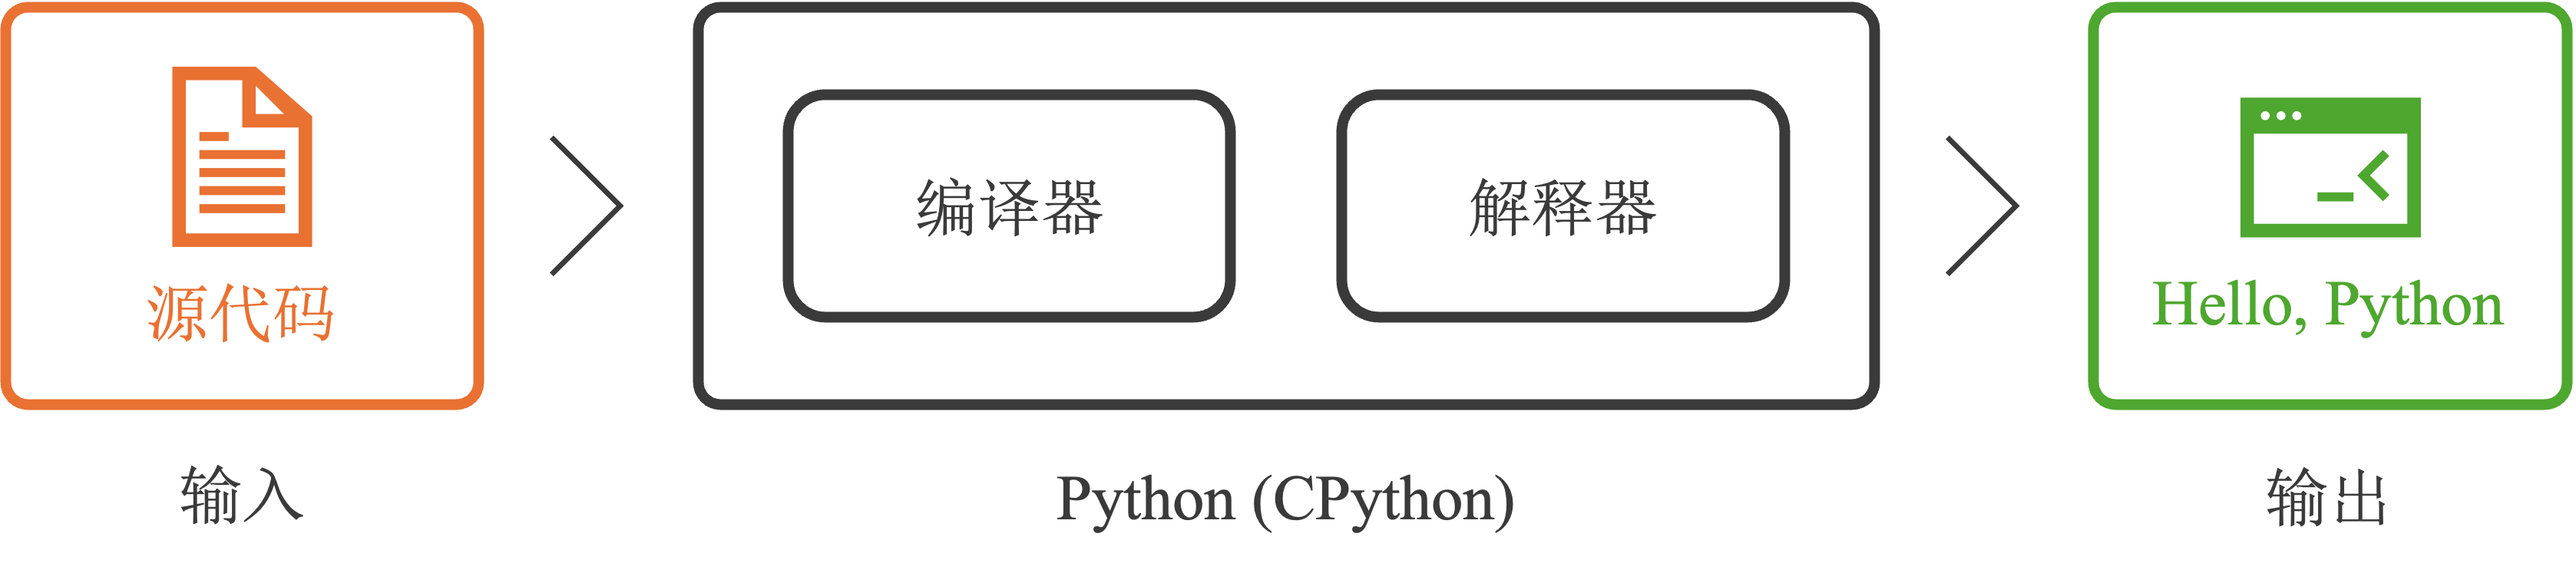
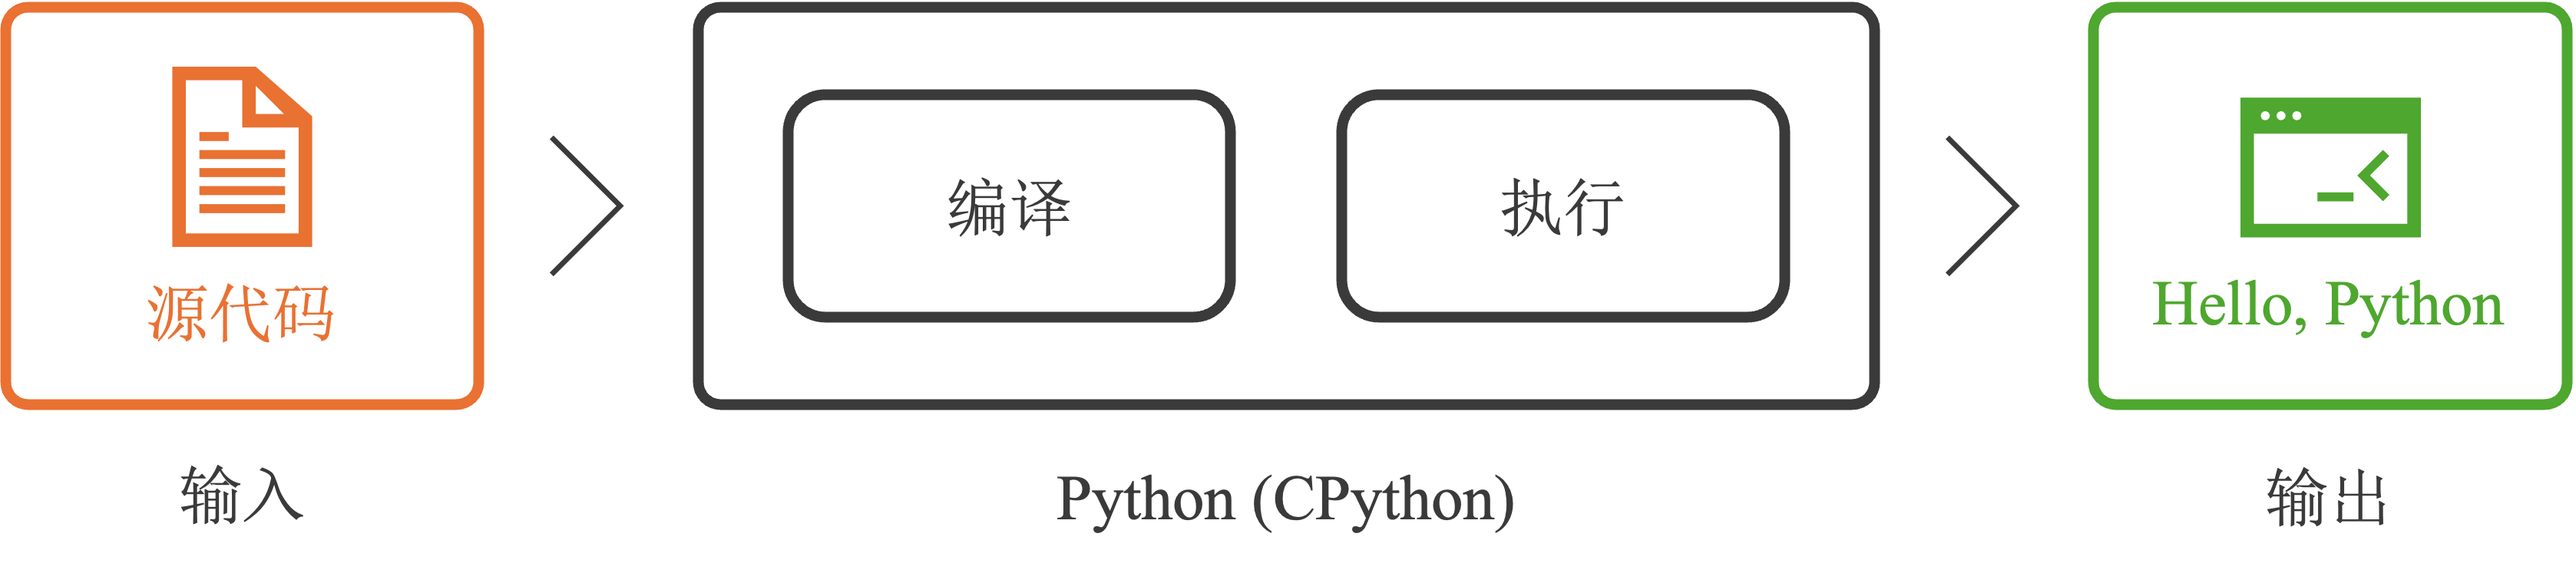
add intro#1

Changed region(s): [[0.558, 0.3079, 0.651, 0.4311], [0.341, 0.3079, 0.434, 0.4311]]

diff --git a/intro.md b/intro.md
@@ -1,34 +1,37 @@
 ## Python 是什么？
-当你在 wiki 上检索这个问题，你会得到如下正式且无歧义的描述。
+当你在 wiki 上检索这个问题，你会得到如下正式的定义。
 ```text
 Python（英语发音：/ˈpaɪθən/；英语发音：/ˈpaɪθɑːn/），是一种广泛使用的解释型、高级和通用的编程语言。
 ```
-然而，这种描述方法更多是站在计算机理论的分类树层级进行的描述，不容易具体了解它与我们常用的工具有什么共同点与不同点。**从用户的视角来说，Python 就是一个软件**。除所提供的功能不同，和常用的 Word、Latex、微信没有什么区别。对于使用者来说，如下图所示，存载源码的 `.py` 文件同 `.txt` 文件也没有什么不同，其作为输入，经过 Python 的处理得到输出。
+然而，这种描述方法更多是站在编程语言分类树进行的描述，不容易了解到与其它工具的共同点与不同点。**从用户的视角来说，Python 类似一个软件**。除所提供的功能和用户界面不同，它与常用的如 Word、Latex、微信等各种软件非常类似。如下图所示，用户需要提供源码文件（如 `.py` 文件，其类似 `.txt` 文件，用于存储文本信息）作为输入，然后输入到 Python 中，经过它的处理后得到输出。具体完成的任务由用户和 Python 提供的基础服务决定，就像是微信提供向某好友发送信息的基础服务，而用户决定向哪个好友以及发送什么信息来作为服务的输入。
 
 <div align="center">
     <img src="img/intro_light.png#gh-light-mode-only" alt="Python intro" width="75%">
     <img src="img/intro_dark.png#gh-dark-mode-only" alt="Python intro" width="75%">
 </div>
 
-关于 Python 的学习和使用，通常是 `.py` 文件的内容，即如何以 Python 的语法进行编码。除了这部分以外，我们还关心 Python 是如何处理和执行我们提供的源码文件。官方支持的 Python 软件是通过 C 实现的，简称为 CPython，这里的 Python 软件就是通过编译 CPython 源码得到的可执行文件。
+现存的资料，如 [3.8.20 Documentation - Full Grammar specification](https://docs.python.org/3/reference/grammar.html)，包含很多关于 Python 语法和工具层面的学习和使用，旨在用户学习后能够提供满足语法要求的 Python 源码。除了编写源码以外，我们可能还关心 Python 程序是如何处理和执行我们提供的源码，这属于 Python 实现层面的范畴。任何软件都是由一种或多种编程语言实现，Python 同样不例外。Python 有许多语言实现，如 [PyPy](https://pypy.org)、[Jython](https://www.jython.org) 等。目前官方支持的 Python 主要通过 C 实现，称为 [CPython](https://github.com/python/cpython)。用户运行的 Python 程序是通过编译某个版本的 CPython 源码所得到的，其可直接下载官方发布的可执行程序，也可自行编译。
 
-在 CPython 的实现中，其包含两个核心部分，即编译器和解释器。编译器负责将我们编码的 Python 源代码编译为字节码，并封装为 `codeobject` 对象，更多阅读：[附：`codeobject` 是什么？](#附codeobject-是什么)。而解释器负责执行 `codeobject` 中的字节码。Python 向用户暴露了两个接口：`compile` 和 `exec`。`compile` 能够将用户输入的源码编译为 `codeobject` 对象，而 `exec` 能在指定的命名空间中执行给定的 `codeobject` 对象。另外，`dis` 能够将 `codeobject` 内存储的字节码二进制表示输出为可读的字符串。解释器就是依据 `codeobject` 中的字节码一条一条执行的，直到指令全部执行后结束或出现无法处理的异常退出程序。
+在 CPython 的实现中，为便于理解，解释器的运行过程可大致分为两个阶段：编译阶段和执行阶段。编译阶段负责将我们提供的源码编译为字节码字节序列，并封装为 `codeobject` 对象，更多阅读：[附：`codeobject` 是什么？](#附codeobject-是什么)。而执行阶段负责执行 `codeobject` 对象。可以通过如下例子理解这一点，Python 向用户暴露了两个内置函数接口：[`compile(source, filename, mode, **kwargs)`](https://docs.python.org/3/library/functions.html#compile) 和 [`exec(source, globals=None, locals=None, **kwargs)`](https://docs.python.org/3/library/functions.html#exec)。`compile` 能够将用户输入的源码编译为 `codeobject` 对象，而 `exec` 能在给定的命名空间中执行 `codeobject` 对象。另外，`dis` 模块能够将 `codeobject` 内存储的字节码字节序列输出为可读的字符串。执行阶段所做的就是依据 `codeobject` 中的字节码一条一条执行的，直到指令全部执行后结束或出现无法处理的异常退出程序。
 ```python
+# 将源码 x = 1 编译为 codeobject 对象
 >>> c = compile('x = 1', '<stdin>', 'exec')
 >>> c
 <code object <module> at 0x102e70710, file "<stdin>", line 1>
 >>> ns = {}
+# 在命名空间 ns 解释执行提供的 codeobject 对象
 >>> exec(c, ns)
 >>> ns
 {'x': 1}
 >>> import dis
+# 查看源码编译的字节码序列
 >>> dis.dis(c.co_code)
   1           0 LOAD_CONST               0 (1)
               2 STORE_NAME               0 (x)
               4 LOAD_CONST               1 (None)
               6 RETURN_VALUE
 ```
-将 Python 的源代码编译为字节码的过程属于编译原理的内容，不属于我们讨论的范畴，我们仅关心对于 Python 提供给用户的某个功能，在 CPython 层面是如何实现的，即关心其解释器的部分的实现。
+将 Python 源码编译为字节码的过程属于编译原理的内容，不属于我们讨论的范畴，更多阅读可参考 [CPython Internals: Your Guide to the  Python 3 Interpreter - The Compiler](https://realpython.com/products/cpython-internals-book)、[Inside The Python Virtual Machine - Compiling Python Source Code](https://leanpub.com/insidethepythonvirtualmachine) 和 [CS143](https://web.stanford.edu/class/cs143/)。我们仅关心对于 Python 提供给用户的某个功能在 CPython 层面是如何实现的，即关心执行阶段的实现。
 
 ## Python 程序是如何运行起来的？
 我们编写了如下 `demo.py` 的 Python 程序，实现计算变量 `x` 和变量 `y` 的和，然后保存到变量 `z`，最后打印 `z`。
